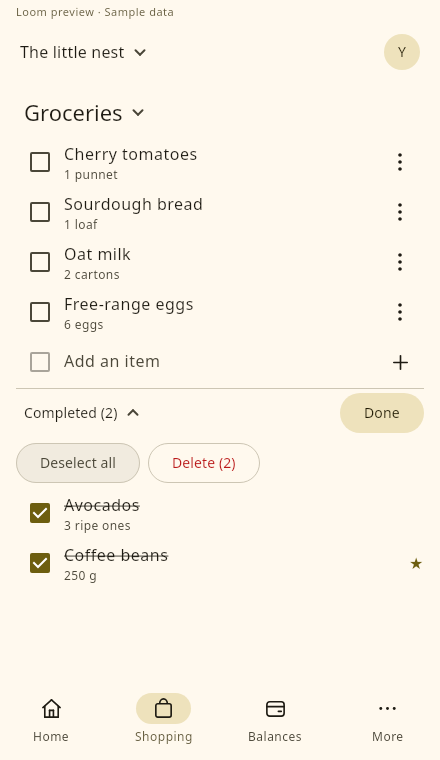
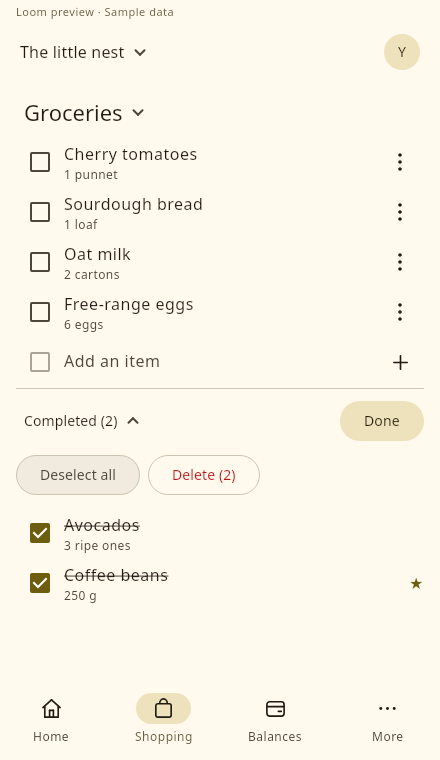
Space checklist controls and build before emulator startup

diff --git a/shared/features/shopping/src/commonMain/kotlin/com/eyther/lumbridge/features/shopping/presentation/components/CompletedShoppingSectionHeader.kt b/shared/features/shopping/src/commonMain/kotlin/com/eyther/lumbridge/features/shopping/presentation/components/CompletedShoppingSectionHeader.kt
@@ -3,6 +3,7 @@ package com.eyther.lumbridge.features.shopping.presentation.components
 import androidx.compose.foundation.layout.Column
 import androidx.compose.foundation.layout.Row
 import androidx.compose.foundation.layout.fillMaxWidth
+import androidx.compose.foundation.layout.padding
 import androidx.compose.material3.FilledTonalButton
 import androidx.compose.material3.HorizontalDivider
 import androidx.compose.material3.MaterialTheme
@@ -15,6 +16,7 @@ import androidx.compose.ui.semantics.contentDescription
 import androidx.compose.ui.semantics.semantics
 import androidx.compose.ui.semantics.stateDescription
 import com.eyther.lumbridge.core.presentation.components.SelectorButton
+import com.eyther.lumbridge.core.presentation.theme.LoomSpacing
 import com.eyther.lumbridge.features.shopping.generated.resources.Res
 import com.eyther.lumbridge.features.shopping.generated.resources.checklist_completed
 import com.eyther.lumbridge.features.shopping.generated.resources.completed_cancel_selection
@@ -47,7 +49,7 @@ internal fun CompletedShoppingSectionHeader(
     Column {
         HorizontalDivider(color = MaterialTheme.colorScheme.outlineVariant)
         Row(
-            modifier = Modifier.fillMaxWidth(),
+            modifier = Modifier.fillMaxWidth().padding(top = LoomSpacing.small),
             verticalAlignment = Alignment.CenterVertically,
         ) {
             SelectorButton(

diff --git a/shared/features/shopping/src/commonMain/kotlin/com/eyther/lumbridge/features/shopping/presentation/components/CompletedShoppingActions.kt b/shared/features/shopping/src/commonMain/kotlin/com/eyther/lumbridge/features/shopping/presentation/components/CompletedShoppingActions.kt
@@ -2,6 +2,7 @@ package com.eyther.lumbridge.features.shopping.presentation.components
 
 import androidx.compose.foundation.layout.Arrangement
 import androidx.compose.foundation.layout.FlowRow
+import androidx.compose.foundation.layout.padding
 import androidx.compose.material3.OutlinedButton
 import androidx.compose.material3.Text
 import androidx.compose.runtime.Composable
@@ -9,6 +10,7 @@ import androidx.compose.ui.Modifier
 import androidx.compose.ui.platform.testTag
 import androidx.compose.ui.unit.dp
 import com.eyther.lumbridge.core.presentation.components.DestructiveButton
+import com.eyther.lumbridge.core.presentation.theme.LoomSpacing
 import com.eyther.lumbridge.features.shopping.generated.resources.Res
 import com.eyther.lumbridge.features.shopping.generated.resources.completed_delete_selected
 import com.eyther.lumbridge.features.shopping.generated.resources.completed_deselect_all
@@ -23,7 +25,10 @@ internal fun CompletedShoppingActions(
     onSelectAll: () -> Unit,
     onDelete: () -> Unit,
 ) {
-    FlowRow(horizontalArrangement = Arrangement.spacedBy(8.dp)) {
+    FlowRow(
+        modifier = Modifier.padding(top = LoomSpacing.extraSmall, bottom = LoomSpacing.small),
+        horizontalArrangement = Arrangement.spacedBy(8.dp),
+    ) {
         OutlinedButton(
             onClick = onSelectAll,
             enabled = !busy,

diff --git a/docs/plans/2026-11-17-polish-ledger.md b/docs/plans/2026-11-17-polish-ledger.md
@@ -39,7 +39,7 @@ Statuses distinguish triage, implementation and verified checks. The implementat
 | SHOPPING-01 | Completed controls look detached from the checklist | One compact collapsible section header, with a small Select action; show bulk controls only in selection mode. Keep individual selection, Select all and household-wide deletion. | Verified shared UI flow and renders |
 | MONEY-04 | Date headings add clutter; expense cards are too large | Remove daily section headings. Show the actual occurrence date on each compact expense/repayment row, retaining newest-first order and full dates across years. | Verified shared UI flow and renders |
 | SHEET-01 | Confirm shopping-list manager has no redundant Cancel | Source inspection confirms its footer contains New list only. Cancel remains in create/rename draft forms. | Verified source |
-| NAV-01 | Native Back is intermittently ignored | PR emulator passes while its independent push run fails. Require repeatable sheet/nested Back behavior, preserve failure captures and investigate before release. | Blocking verification; investigating |
+| NAV-01 | Native Back is intermittently ignored | PR emulator passes while its independent push run fails. Failure captures show a foreign Quickstep launcher ANR intercepting input. Build APKs before emulator boot, then verify native behavior without hiding failures. | Environment fix awaiting repeat verification |
 | AUDIT-01 | Final architecture, copy, usability and regression audit | Review final diff with `ai/agents/AGENTS_REVIEWER.agent.md` after fixes/checks. Typed errors, feature-owned packages, resources, stable collections/keys, central annotated DI, demo separation. Record limitations honestly. | Final local audit complete; CI/platform checks required before delivery |
 
 ## Research notebook
@@ -167,6 +167,22 @@ The manifest change removes the disabled-callback warnings and the PR emulator r
 native checks, but the independent push run still fails at sheet/nested Back. This is not considered
 resolved. Native checks now preserve a screenshot and window hierarchy on failure, and the runner
 enables Android's Back-dispatch diagnostic log. App delivery remains blocked on this investigation.
+
+The failure artifacts from [run 44074698729](https://github.com/ruialmeida51/loom/actions/runs/44074698729)
+show an Android-owned **“Quickstep isn't responding”** dialog over both the split sheet and Manage
+feeds. The system launcher is intercepting Back, rather than the event reaching Loom. CI now builds
+the two APKs before booting the emulator, releases that build JVM, and waits for the launcher's first
+draw before instrumentation. The runtime Gradle JVM is smaller; animations remain enabled and native
+route/draft assertions are unchanged. No app/launcher ANR is automatically dismissed during tests.
+
+## Accepted Tasks follow-up
+
+The user selected **Home · Shopping · Money · Tasks · More**. Tasks becomes the single feature for
+household to-dos and reminders. A task can have only a title; dates and notifications are optional.
+Keep existing dated/repeating reminders and their notification behavior, a small task preview and
+quick add on Home, and move the full list into its own tab. More retains secondary tools/News.
+Feature models, packages, DI and resources must follow Tasks ownership. Apply the backward-compatible
+backend migration and include this change in the final audit. This work is accepted, not yet implemented.
 
 The manifest change passed the full PR run (Android/shared/device/iOS), but its parallel push run
 still failed the same two native Back checks. The explicit integration removes the disabled-callback

diff --git a/docs/audits/2026-11-17-household-polish.md b/docs/audits/2026-11-17-household-polish.md
@@ -5,7 +5,8 @@ using the Plannot-derived `ai/agents/AGENTS_REVIEWER.agent.md` checklist after f
 The feedback/decision/source ledger is [here](../plans/2026-11-17-polish-ledger.md).
 
 **Verdict: source/local validation passes; release verification needs revision.** The intermittent
-native Back checks still block delivery. The ledger records the independent passing/failing runs.
+native Back verification remains a release gate. Failure captures identify a foreign Quickstep
+launcher ANR stealing input; the CI resource/startup change must pass repeat verification.
 Android device execution and iOS compilation remain release gates in CI. A build is not an upload receipt.
 
 ## Resolved findings
